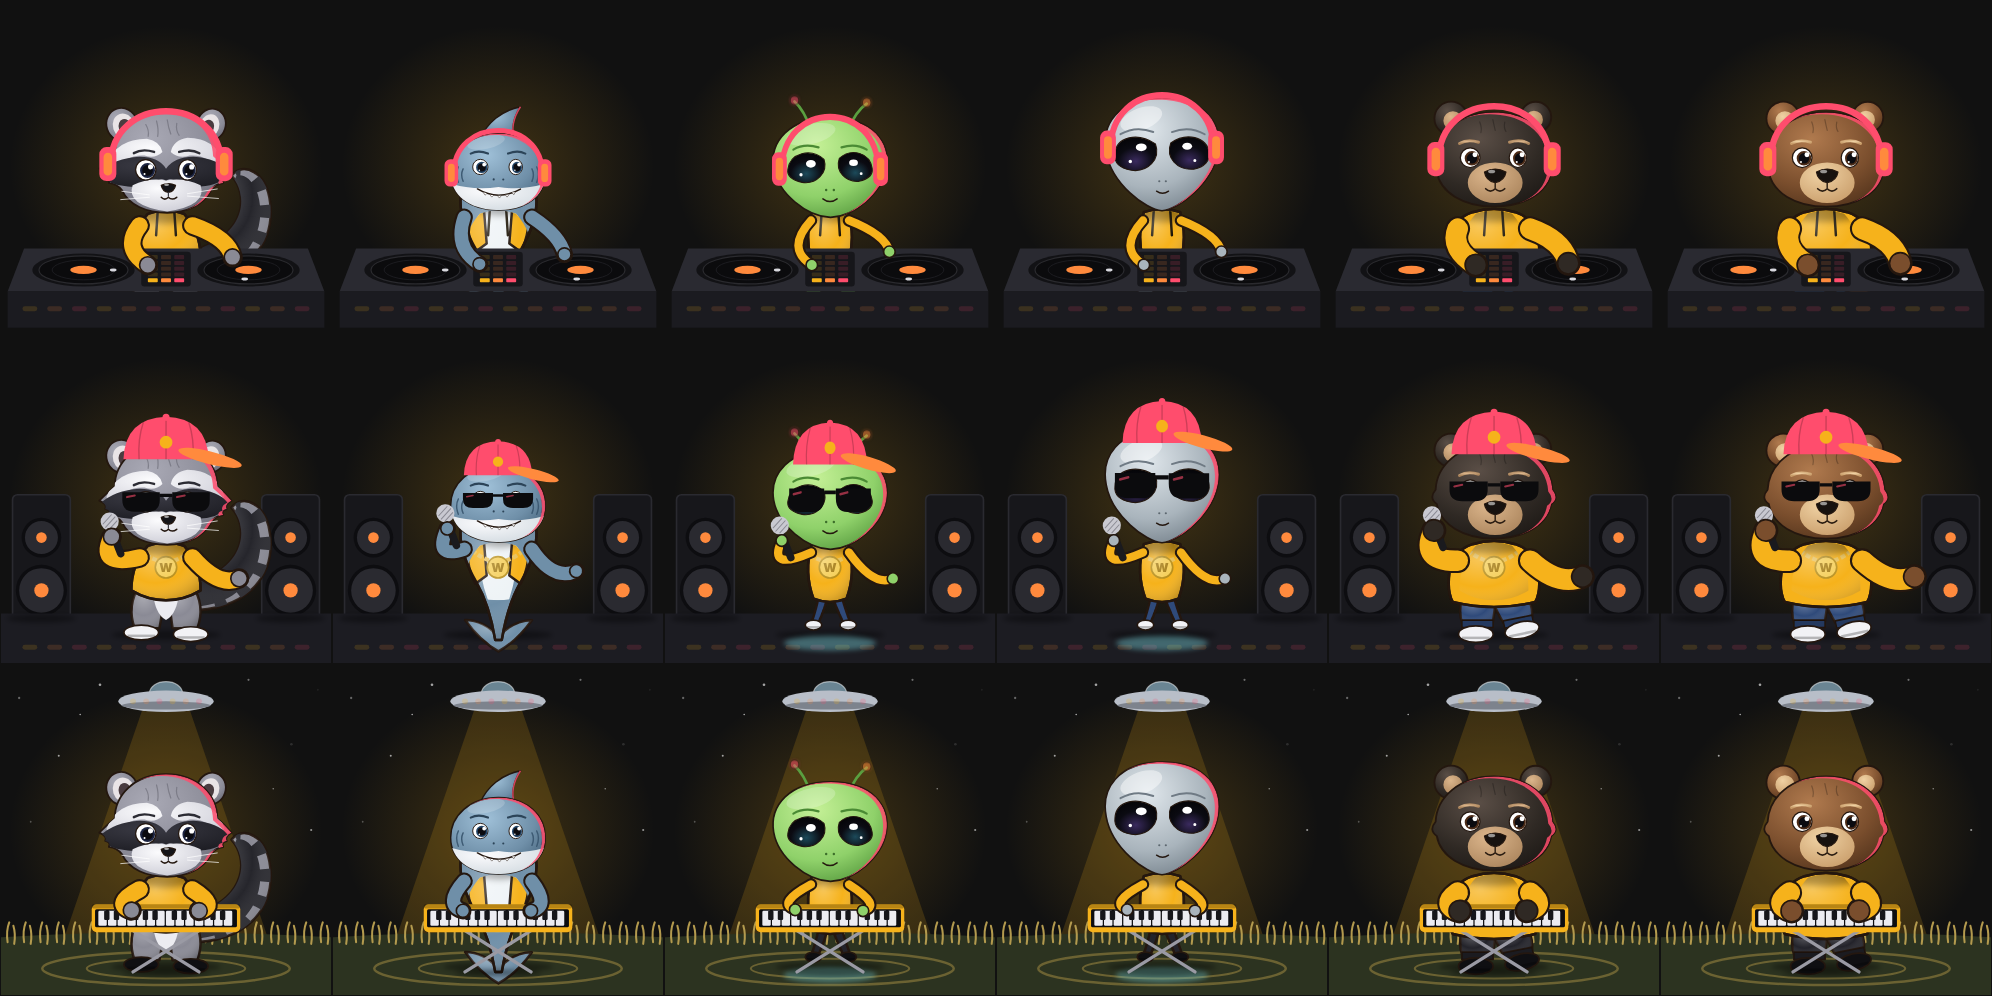
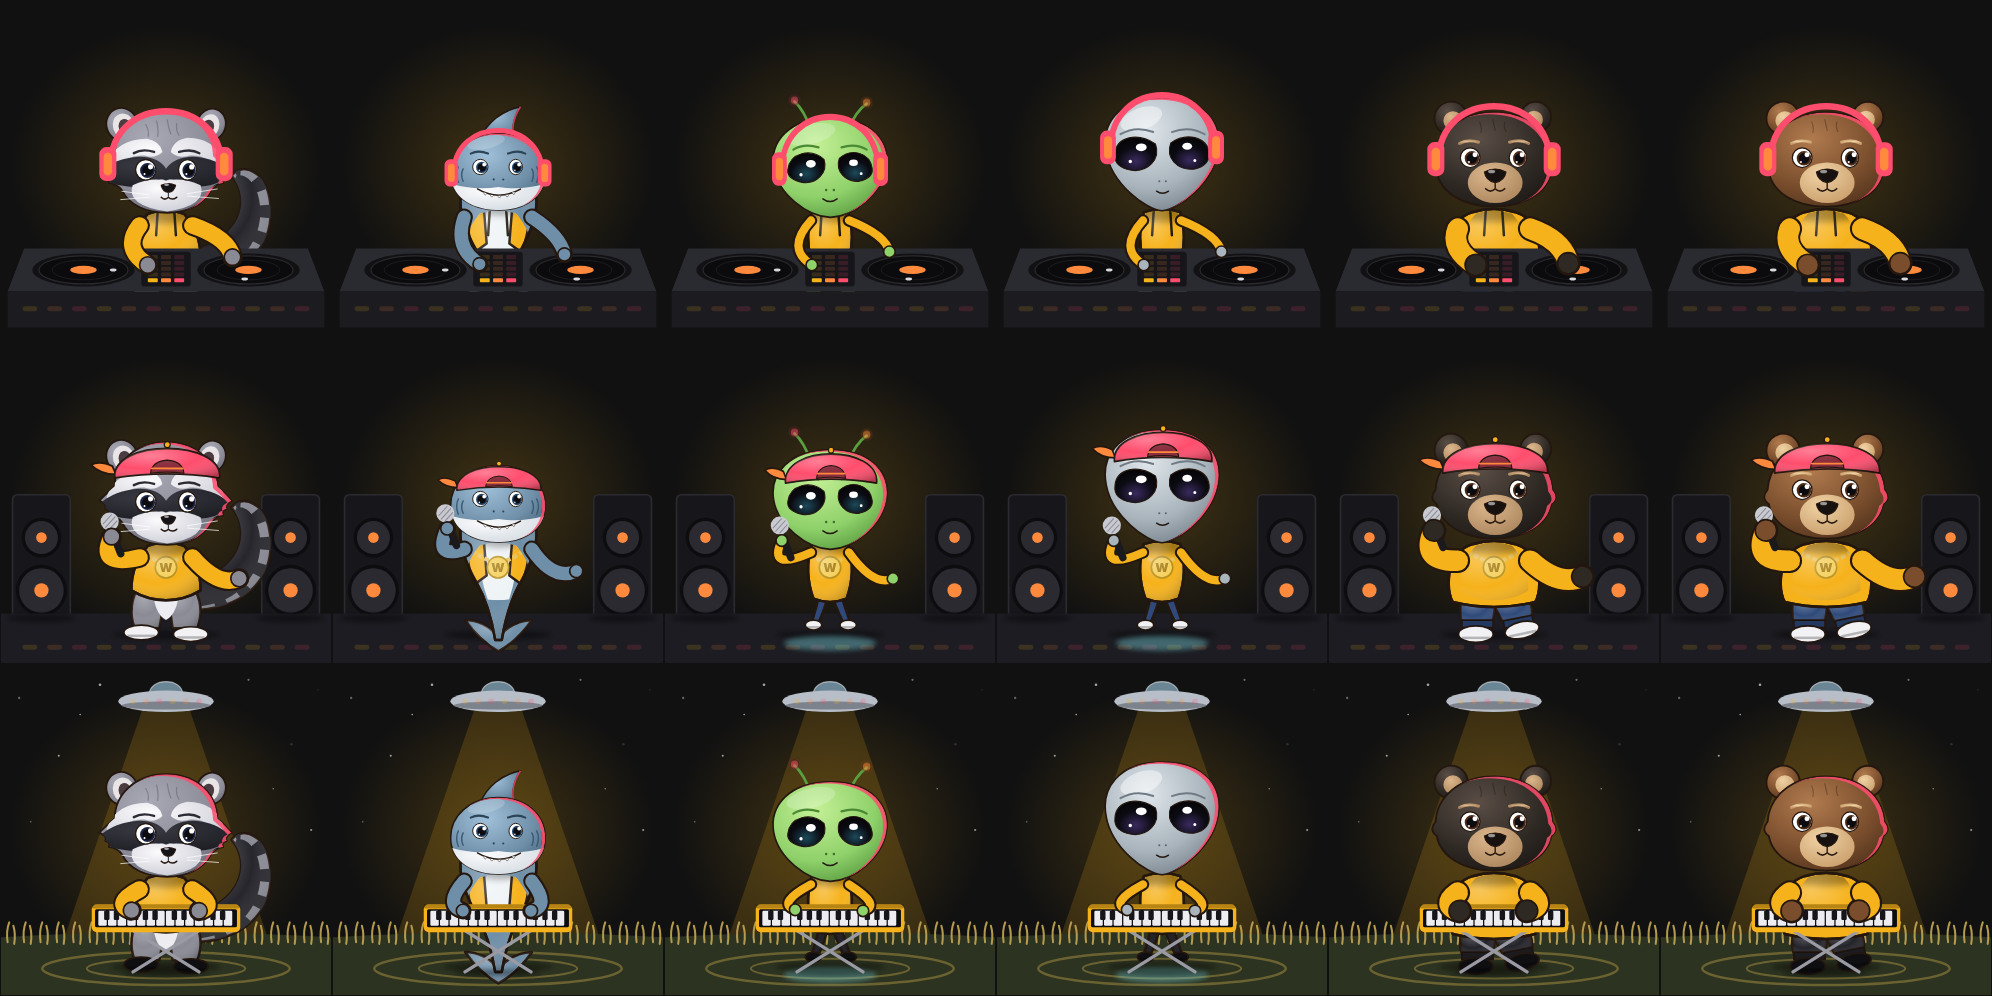
Critter outfits: review changes (backwards cap, no shades, no mohawk, theremin tunic)
Claude-Session: https://claude.ai/code/session_014p1Va9t9BbqteJVmdktiCe

diff --git a/src/components/critters/Rapper.tsx b/src/components/critters/Rapper.tsx
@@ -5,10 +5,9 @@ import type { ActProps } from './species';
 import { useCritterRig } from './rig';
 
 /**
- * Rapper raccoon between two speaker stacks: snapback, shades and gold chain, a mic in one hand and the
- * other hand riding the beat. His mouth moves with the mids while playing and the speaker cones pump with
- * the bass. Flourish: pushes the shades up onto the cap with the hype hand thrown high, then drops them
- * back. Paused, the mic and hand drop and he straightens his cap now and then.
+ * Rapper raccoon between two speaker stacks: a snapback worn backwards and a gold chain, a mic in one hand
+ * and the other hand riding the beat. His mouth moves with the mids while playing and the speaker cones pump with
+ * the bass. Flourish: the hype hand thrown high. Paused, the mic and hand drop and he straightens his cap now and then.
  */
 export function Rapper({ species, still }: ActProps) {
   const root = useRef<SVGSVGElement>(null);
@@ -24,7 +23,6 @@ export function Rapper({ species, still }: ActProps) {
       const hype = a.live ? -bob * 22 : idle ? 0 : -Math.max(0, Math.sin(t * 4)) * 14;
       const show = swell(flourish);
       $('arm-r').setAttribute('transform', `rotate(${(s.down * 62 + hype - show * 30).toFixed(2)} 262 268)`);
-      $('shades').setAttribute('transform', `translate(0 ${(-30 * Math.min(1, show * 1.6)).toFixed(2)})`);
 
       svg.querySelectorAll<SVGElement>('[data-cone]').forEach((c) => {
         const [cx, cy] = c.dataset.cone!.split(',').map(Number);
@@ -75,18 +73,15 @@ export function Rapper({ species, still }: ActProps) {
         species={species}
         hat={
           <g data-part="adjust" className="own-hat">
-            <path className="cap" d="M140 128 Q 142 70 200 68 Q 258 70 260 128 Z" />
-            <path d="M200 70 V128 M168 76 Q 160 100 162 128 M232 76 Q 240 100 238 128" fill="none" stroke="rgb(0 0 0 / 0.2)" strokeWidth="2" />
-            <ellipse className="cap-brim" cx="262" cy="126" rx="46" ry="9" transform="rotate(14 262 126)" />
-            <circle className="cap" cx="200" cy="69" r="5" />
-            <circle className="cap-logo" cx="200" cy="104" r="9" />
-          </g>
-        }
-        eyewear={
-          <g className="own-eyewear" data-part="shades">
-            <path d="M144 156 H192 V166 Q 192 180 176 180 H160 Q 144 180 144 166 Z M208 156 H256 V166 Q 256 180 240 180 H224 Q 208 180 208 166 Z" fill="#0b0b0d" />
-            <path d="M192 160 H208" stroke="#0b0b0d" strokeWidth="4" />
-            <path data-glow="" d="M150 162 L 160 160 M214 162 L 224 160" className="shade-glint" strokeWidth="2.5" strokeLinecap="round" />
+            {/* worn backwards: the brim sticks out behind on the left, the strap's gap shows over the brow */}
+            <g transform="translate(200 178) scale(0.84) translate(-204 -168)">
+              <path className="cap-brim ol" d="M114 120 Q 92 110 78 118 Q 94 134 120 134 Z" />
+              <path className="cap ol" d="M118 140 C 112 74, 300 74, 294 140 Q 206 126 118 140 Z" />
+              <path d="M118 140 C 112 74, 300 74, 294 140 Q 206 126 118 140 Z" fill="url(#critter-vinyl)" />
+              <path className="cap-gap ol-thin" d="M178 132 Q 180 112 206 110 Q 232 112 234 132 Q 206 128 178 132 Z" />
+              <path className="cap-strap" d="M180 124 H 232" strokeWidth="3" strokeLinecap="round" />
+              <circle className="cap-logo ol-thin" cx="206" cy="84" r="5" />
+            </g>
           </g>
         }
       />

diff --git a/src/styles.css b/src/styles.css
@@ -1602,7 +1602,8 @@ html.tv ::-webkit-scrollbar { width: 0; height: 0; }
 .critter .cap { fill: var(--viz-high); }
 .critter .cap-brim { fill: var(--viz-mid); }
 .critter .cap-logo { fill: var(--accent); }
-.critter .shade-glint { stroke: var(--viz-high); }
+.critter .cap-gap { fill: rgb(0 0 0 / 0.45); }
+.critter .cap-strap { stroke: var(--viz-mid); }
 /* rocker */
 .critter .amp { fill: #141417; stroke: #2e2e34; stroke-width: 2; }
 .critter .amp-logo { fill: var(--viz-high); }
@@ -1611,8 +1612,6 @@ html.tv ::-webkit-scrollbar { width: 0; height: 0; }
 .critter .boot-black { fill: #0f0f12; }
 .critter .leather { fill: #1d1d22; }
 .critter-rocker .sleeve { stroke: #1d1d22; }
-.critter .mohawk { fill: var(--viz-high); }
-.critter .mohawk-tip { stroke: var(--viz-peak, #fff); }
 .critter .fretboard { fill: #222226; }
 .critter .axe { fill: var(--viz-mid); stroke: #111; stroke-width: 2; }
 
@@ -1622,7 +1621,7 @@ html.tv ::-webkit-scrollbar { width: 0; height: 0; }
 .critter .shark-belly { fill: #eef3f6; }
 .critter .shark-gill { stroke: #4a6780; }
 /* the dorsal fin would poke out beside a hat or through a hood: hide it under one */
-.critter:is(.critter-country, .critter-rapper, .critter-rocker, .critter-accordion) .shark-fin,
+.critter:is(.critter-country, .critter-rapper, .critter-accordion) .shark-fin,
 :root[data-skin-group='nuclear'] .critter .shark-fin,
 :root:is([data-skin='halloween'], [data-skin='thanksgiving'], [data-skin='christmas'], [data-skin='july4']) .critter .shark-fin { display: none; }
 .critter-drums .sleeve { stroke: var(--skin); }
@@ -1640,12 +1639,12 @@ html.tv ::-webkit-scrollbar { width: 0; height: 0; }
 .critter .stand { stroke: #9a9aa4; }
 .critter .stick { stroke: #e8d2a6; }
 
-/* alien face (species.tsx) and the Theremin act (Theremin.tsx): space suit, UFO lights, antennae and sound waves follow the skin */
+/* alien face (species.tsx) and the Theremin act (Theremin.tsx): space-age tunic, UFO lights, antennae and sound waves follow the skin */
 .critter .alien-skin { fill: #8fd16a; }
 .critter .alien-dark { fill: #5f9e45; stroke: #5f9e45; }
-.critter-theremin .legs { fill: #c9ced8; }
-.critter .moon-boot { fill: #ececf1; }
-.critter .suit-trim { fill: #c9ced8; }
+.critter-theremin .legs { fill: color-mix(in srgb, var(--accent) 70%, #000); }
+.critter .tunic-collar { fill: color-mix(in srgb, var(--accent) 55%, #fff); }
+.critter .tunic-belt { fill: #e8c15a; }
 .critter .antenna { fill: var(--viz-high); }
 .critter .planet { fill: var(--viz-low); }
 .critter .planet-ring { stroke: var(--viz-mid); }
@@ -1716,7 +1715,7 @@ html.tv ::-webkit-scrollbar { width: 0; height: 0; }
 :root[data-skin='meltdown'] .critter .sleeve { stroke: #ff8a1f; }
 :root:is([data-skin='uranium'], [data-skin='isotope']) .critter .sleeve { stroke: #b6e83a; }
 :root[data-skin-group='nuclear'] .critter .legs { fill: #e0b10a; }
-:root[data-skin-group='nuclear'] .critter :is(.hand, .boot, .boot-black, .sneaker, .moon-boot) { fill: #1b1b1f; }
+:root[data-skin-group='nuclear'] .critter :is(.hand, .boot, .boot-black, .sneaker) { fill: #1b1b1f; }
 :root[data-skin-group='nuclear'] .critter .thumb { fill: #3a3a40; }
 /* Lasers: a visor with a glowing beam; Neon: glow sticks */
 .critter .visor-strap { stroke: #1b1b22; }

diff --git a/src/components/critters/Theremin.tsx b/src/components/critters/Theremin.tsx
@@ -10,7 +10,7 @@ const STARS: [number, number, number][] = [
 ];
 
 /**
- * Theremin alien on the moon, under a hovering UFO. The space suit, the UFO lights and the sound waves take
+ * Theremin alien on the moon, under a hovering UFO. The space-age tunic, the UFO lights and the sound waves take
  * the skin's colours. The left hand rises over the volume loop with the bass, the right moves toward the
  * pitch antenna with the highs and wobbles on sharp hits, waves pour off the antenna, the antennae glow with
  * the bass and the stars twinkle. Flourish: a swoop up the antenna with a wide vibrato and big waves.
@@ -79,13 +79,16 @@ export function Theremin({ species, still }: ActProps) {
       <Shadow cx={200} cy={364} rx={64} />
       <Shadow cx={200} cy={377} rx={28} ry={4} />
 
-      {/* space-suit trousers and moon boots */}
-      <Legs species={species} shoe="moon-boot" />
+      {/* tunic leggings and boots */}
+      <Legs species={species} shoe="boot-black" />
 
       <Body species={species}>
-        <ellipse className="suit-trim" cx="200" cy="248" rx="48" ry="9" />
-        <rect x="178" y="262" width="44" height="22" rx="4" fill="#16161a" />
-        {[0, 1, 2].map((i) => <circle key={i} data-glow="" className={`led led-${i}`} cx={188 + i * 12} cy="273" r="4" />)}
+        {/* a space-age tunic: collar band, belt with a glowing buckle, a ringed-planet badge */}
+        <path className="tunic-collar ol-thin" d="M150 250 Q 200 272 250 250 L 248 262 Q 200 284 152 262 Z" />
+        <rect className="tunic-belt ol-thin" x="140" y="300" width="120" height="8" />
+        <rect data-glow="" className="led led-0 ol-thin" x="194" y="298" width="12" height="12" rx="2" />
+        <circle className="planet ol-thin" cx="212" cy="282" r="7" />
+        <ellipse cx="212" cy="282" rx="12" ry="3.5" fill="none" stroke="#24170f" strokeWidth="1.6" transform="rotate(-18 212 282)" />
         <BodyOutfits />
       </Body>
 

diff --git a/src/components/critters/Rocker.tsx b/src/components/critters/Rocker.tsx
@@ -6,10 +6,9 @@ import type { ActProps } from './species';
 import { useCritterRig } from './rig';
 
 /**
- * Rocker raccoon in front of two amp stacks: a spiky mohawk and a flying-V in the skin's colours, a studded
+ * Rocker raccoon in front of two amp stacks: a flying-V in the skin's colours, a studded
  * leather jacket, and a proper headbang on the beat. The amp lights follow the bass, mids and highs.
- * Strums eighth notes in time. Flourish: a full windmill strum with the guitar tipped up. Paused, he pushes
- * his hair back up now and then.
+ * Strums eighth notes in time. Flourish: a full windmill strum with the guitar tipped up. Paused, he rests.
  */
 export function Rocker({ species, still }: ActProps) {
   const root = useRef<SVGSVGElement>(null);
@@ -66,15 +65,8 @@ export function Rocker({ species, still }: ActProps) {
         <BodyOutfits />
       </Body>
 
-      <Head
-        species={species}
-        hat={
-          <g data-part="adjust" className="own-hat">
-            <path className="mohawk" d="M166 124 L 172 74 L 184 112 L 194 50 L 204 108 L 216 56 L 222 112 L 234 78 L 236 124 Z" />
-            <path className="mohawk-tip" d="M172 74 L 176 92 M194 50 L 196 74 M216 56 L 214 78 M234 78 L 230 96" fill="none" strokeWidth="3" strokeLinecap="round" />
-          </g>
-        }
-      />
+      <Head species={species} />
+
 
       {/* flying-V, neck up to the right */}
       <g data-part="guitar">

diff --git a/src/components/critters/Critter.tsx b/src/components/critters/Critter.tsx
@@ -30,10 +30,10 @@ export interface ActInfo {
 export const ACTS: ActInfo[] = [
   { id: 'dj', label: 'DJ', blurb: 'Scratches records behind two decks', Scene: DJ },
   { id: 'country', label: 'Country', blurb: 'Cowboy hat, banjo, taps a boot on the porch', Scene: Country },
-  { id: 'rapper', label: 'Rapper', blurb: 'Cap, shades and chain, raps into the mic', Scene: Rapper },
-  { id: 'rocker', label: 'Rocker', blurb: 'Mohawk, flying-V, headbangs in front of the amps', Scene: Rocker },
+  { id: 'rapper', label: 'Rapper', blurb: 'Backwards cap and chain, raps into the mic', Scene: Rapper },
+  { id: 'rocker', label: 'Rocker', blurb: 'Leather jacket, flying-V, headbangs in front of the amps', Scene: Rocker },
   { id: 'drums', label: 'Drummer', blurb: 'Sailor tee, drum kit and bubbles, under the sea', Scene: Drums },
-  { id: 'theremin', label: 'Theremin', blurb: 'Space suit, plays a theremin on the moon under a UFO', Scene: Theremin },
+  { id: 'theremin', label: 'Theremin', blurb: 'Space-age tunic, plays a theremin on the moon under a UFO', Scene: Theremin },
   { id: 'synth', label: 'Synth', blurb: 'Plays a synth in a crop circle under a tractor beam', Scene: Synth },
   { id: 'accordion', label: 'Accordion', blurb: 'Beanie and sweater, squeezes an accordion by the campfire', Scene: Accordion },
 ];

diff --git a/docs/USER-GUIDE.md b/docs/USER-GUIDE.md
@@ -419,10 +419,10 @@ alien are all possible.
 |---|---|---|
 | **DJ** | Hoodie and headphones, behind two decks | Scratches on sharp hits, rides the mixer, the records spin |
 | **Country** | Cowboy hat, plaid shirt, bandana, five-string banjo, on a porch | Strums on the beat, changes chords, taps a boot |
-| **Rapper** | Snapback, shades, gold chain, mic, between two speaker stacks | Throws a hand up on the beat, the speaker cones pump with the bass |
-| **Rocker** | Spiky mohawk, studded leather jacket, flying-V, in front of two amp stacks | Headbangs hard on the beat, strums on sharp hits, the amp lights follow the bass, mids and highs |
+| **Rapper** | Snapback worn backwards, gold chain, mic, between two speaker stacks | Throws a hand up on the beat, the speaker cones pump with the bass |
+| **Rocker** | Studded leather jacket, flying-V, in front of two amp stacks | Headbangs hard on the beat, strums on sharp hits, the amp lights follow the bass, mids and highs |
 | **Drummer** | Striped sailor tee, behind a drum kit on the sea floor | Hits the snare on the beat, crashes the cymbal on sharp hits, the kick drum thumps, bubbles rise faster with the bass and the seaweed sways |
-| **Theremin** | Space suit and moon boots, on the moon under a hovering UFO | One hand rises over the volume loop with the bass, the other moves toward the pitch antenna with the highs, glowing sound waves pour off the antenna, the UFO lights chase on the beat |
+| **Theremin** | Space-age tunic with a belt and planet badge, on the moon under a hovering UFO | One hand rises over the volume loop with the bass, the other moves toward the pitch antenna with the highs, glowing sound waves pour off the antenna, the UFO lights chase on the beat |
 | **Synth** | Turtleneck, a synth on an X stand in a crop circle, under a saucer's tractor beam | The keys light up with the music, one hand hops on the beat, the other glides along the keys with the highs, the beam brightens with the bass |
 | **Accordion** | A beanie with a pom-pom and a sweater, by a campfire in the pines | The bellows pump faster with the bass and puff out on the beat, the campfire flares with the bass, fireflies blink with the highs |
 
@@ -502,9 +502,8 @@ Some groups of skins give them a whole outfit:
 | **Editor palettes** | Thick-rimmed coder glasses |
 | **Holidays** | A hat in place of their own: a witch hat for Halloween, a pilgrim hat for Thanksgiving, a Santa hat for Christmas, an Uncle Sam hat for July 4th and heart boppers for Valentine's Day |
 
-Outfits swap out what they'd clash with: the hazmat hood and holiday hats replace the act's hat, cap,
-mohawk or beanie (the DJ keeps the headphones on over the hood), and visors and glasses replace the rapper's
-shades. The alien's antennae and the shark's fin poke out from under any hat. The outfit follows the skin on screen, so it changes with Seasonal
+Outfits swap out what they'd clash with: the hazmat hood and holiday hats replace the act's hat, cap
+or beanie (the DJ keeps the headphones on over the hood). The alien's antennae and the shark's fin poke out from under any hat. The outfit follows the skin on screen, so it changes with Seasonal
 and Random daily too.
 
 <img src="screenshots/raccoon-outfits.png" alt="All four raccoons in six skins: Cherenkov (hazmat suits), Laser show (visors), Outrun (glow sticks), Game Boy Color (8-bit shades), Dracula (coder glasses) and Christmas (Santa hats)" width="100%">
@@ -528,12 +527,12 @@ All the critters behave the same way around the music:
   (down on the beat, up between; a quick four-stroke roll on the banjo).
 - **Showing off:** when a new song starts, or in an instrumental break after a sung line (with synced lyrics),
   each act does its flourish, at most once every 12 seconds: the country critter spins the banjo and tips the hat,
-  the DJ double-scratches with a hand in the air, the rapper pushes the shades up onto the cap, the rocker does a
+  the DJ double-scratches with a hand in the air, the rapper throws the hype hand high, the rocker does a
   windmill strum, the drummer plays a fill into the crash, the theremin player swoops up the antenna, the synth
   player runs a glissando down the keys, and the accordion player gives the bellows one long stretch.
 - Everyone casts a soft shadow on the floor, and so do the stands, amps, speakers and drum kit.
 - **Paused:** they sway slowly, blink, yawn now and then and set their headwear straight (the DJ the
-  headphones, the country act tips the hat, the rapper fixes the cap, the rocker pushes the mohawk up, the
+  headphones, the country act tips the hat, the rapper fixes the cap, the
   accordion player pulls the beanie straight). The rapper lowers the mic, the drummer rests the sticks, the
   theremin hands drop, the synth hands rest on the keys and the bellows breathe slowly.
 - **Streams the app can't read** (no CORS, see above): they play along to a gentle made-up rhythm instead.

diff --git a/docs/CRITTERS-ROADMAP.md b/docs/CRITTERS-ROADMAP.md
@@ -59,7 +59,7 @@ the asset work and a risk on low-end phones and the iOS WebView.
   four-stroke roll on the banjo, deeper when the band is loud; a strong high hit still gets a hard strum.
 - **Flourishes** (`flourish.ts`, drawn per act): on a new song, or 2.5 s into a loud gap after a sung line, at most
   every 12 s. Banjo spin and hat tip (Country), double-scratch with a hand in the air (DJ), shades pushed up onto
-  the cap (Rapper), windmill strum (Rocker), fill into the crash (Drums), antenna swoop (Theremin), glissando
+  the cap (Rapper; the hype hand alone since the shades came off), windmill strum (Rocker), fill into the crash (Drums), antenna swoop (Theremin), glissando
   (Synth), a long bellows stretch (Accordion). Each starts with a small wind-up (anticipation).
 - **Contact shadows** (`Shadow` in `parts.tsx`) under feet, stands, amps, speakers, the drum kit and the campfire.
 - Not done yet: a solo needs synced lyrics to be noticed; without them only song changes trigger a flourish.
@@ -88,8 +88,7 @@ the asset work and a risk on low-end phones and the iOS WebView.
   the top's outer edges, sleeve width, paw size, a reach that keeps hands from stretching to the old wide body's
   instruments, and its legs, feet, neck and tail. The acts kept their poses and pivots; `Pivot` moves each arm,
   the tail and the country boot onto the figure's own joints.
-- **Next:** the act outfits fitted to these bodies and the review changes (phase 4), and reframing each scene
-  around the smaller figures.
+- **Next:** the act outfits fitted to these bodies (phase 4).
 - The skeleton contract (named parts, the mouth anchor, shoulders and hands) stays, so the rig and phases 1–2
   carry over.
 
@@ -97,7 +96,8 @@ the asset work and a risk on low-end phones and the iOS WebView.
 
 - Each act's clothes drawn for the 4 body types (8 × 4 = 32 outfits), starting from the review sheet of the seven
   acts other than Country in the new style (`docs/critters/outfit-sheet.html`, November 2026; after review the Synth visor,
-  the Rapper's shades and the Rocker's mohawk came off and the Rapper's cap turned backwards); for example the shark's throat bandana,
+  the Rapper's shades and the Rocker's mohawk came off and the Rapper's cap turned backwards, and the
+  Theremin space suit became a space-age tunic; the app outfits had all of that by November 2026); for example the shark's throat bandana,
   sleeveless denim vest around the fin and fin strap; the aliens' neon-wire hat and hover banjo; the raccoon's
   patchwork vest, rolled sleeves and slouch hat; the bear's shearling vest and notched Stetson.
 - **Colours: the clothes keep following the app skin** (decided November 2026). The outfit sheet's own colours

diff --git a/CHANGELOG.md b/CHANGELOG.md
@@ -18,6 +18,9 @@
   shark one slim torpedo down to a crescent tail, with its fins for arms; the aliens spindly arms and legs over a
   hover glow. Heads are a little smaller so the bodies show, and arms hang from each body's shoulders. The act
   outfits are fitted to them next (`docs/CRITTERS-ROADMAP.md`, phase 4).
+- **Outfit changes from the review.** The rapper wears the cap backwards and no shades, the rocker loses the
+  mohawk (the shark's fin shows again there), and the theremin player wears a space-age tunic with a belt, a
+  glowing buckle and a planet badge instead of a space suit.
 - **The critters' faces act while they sing.** Instead of one oval that opens and shuts, each critter's mouth now
   takes six shapes (closed, *ah*, *oh*, *ee*, lips pressed for *m*/*b*/*p*, and an open grin when belting). With
   synced lyrics the shapes follow each syllable of the line; without them they follow a rough guess from the
